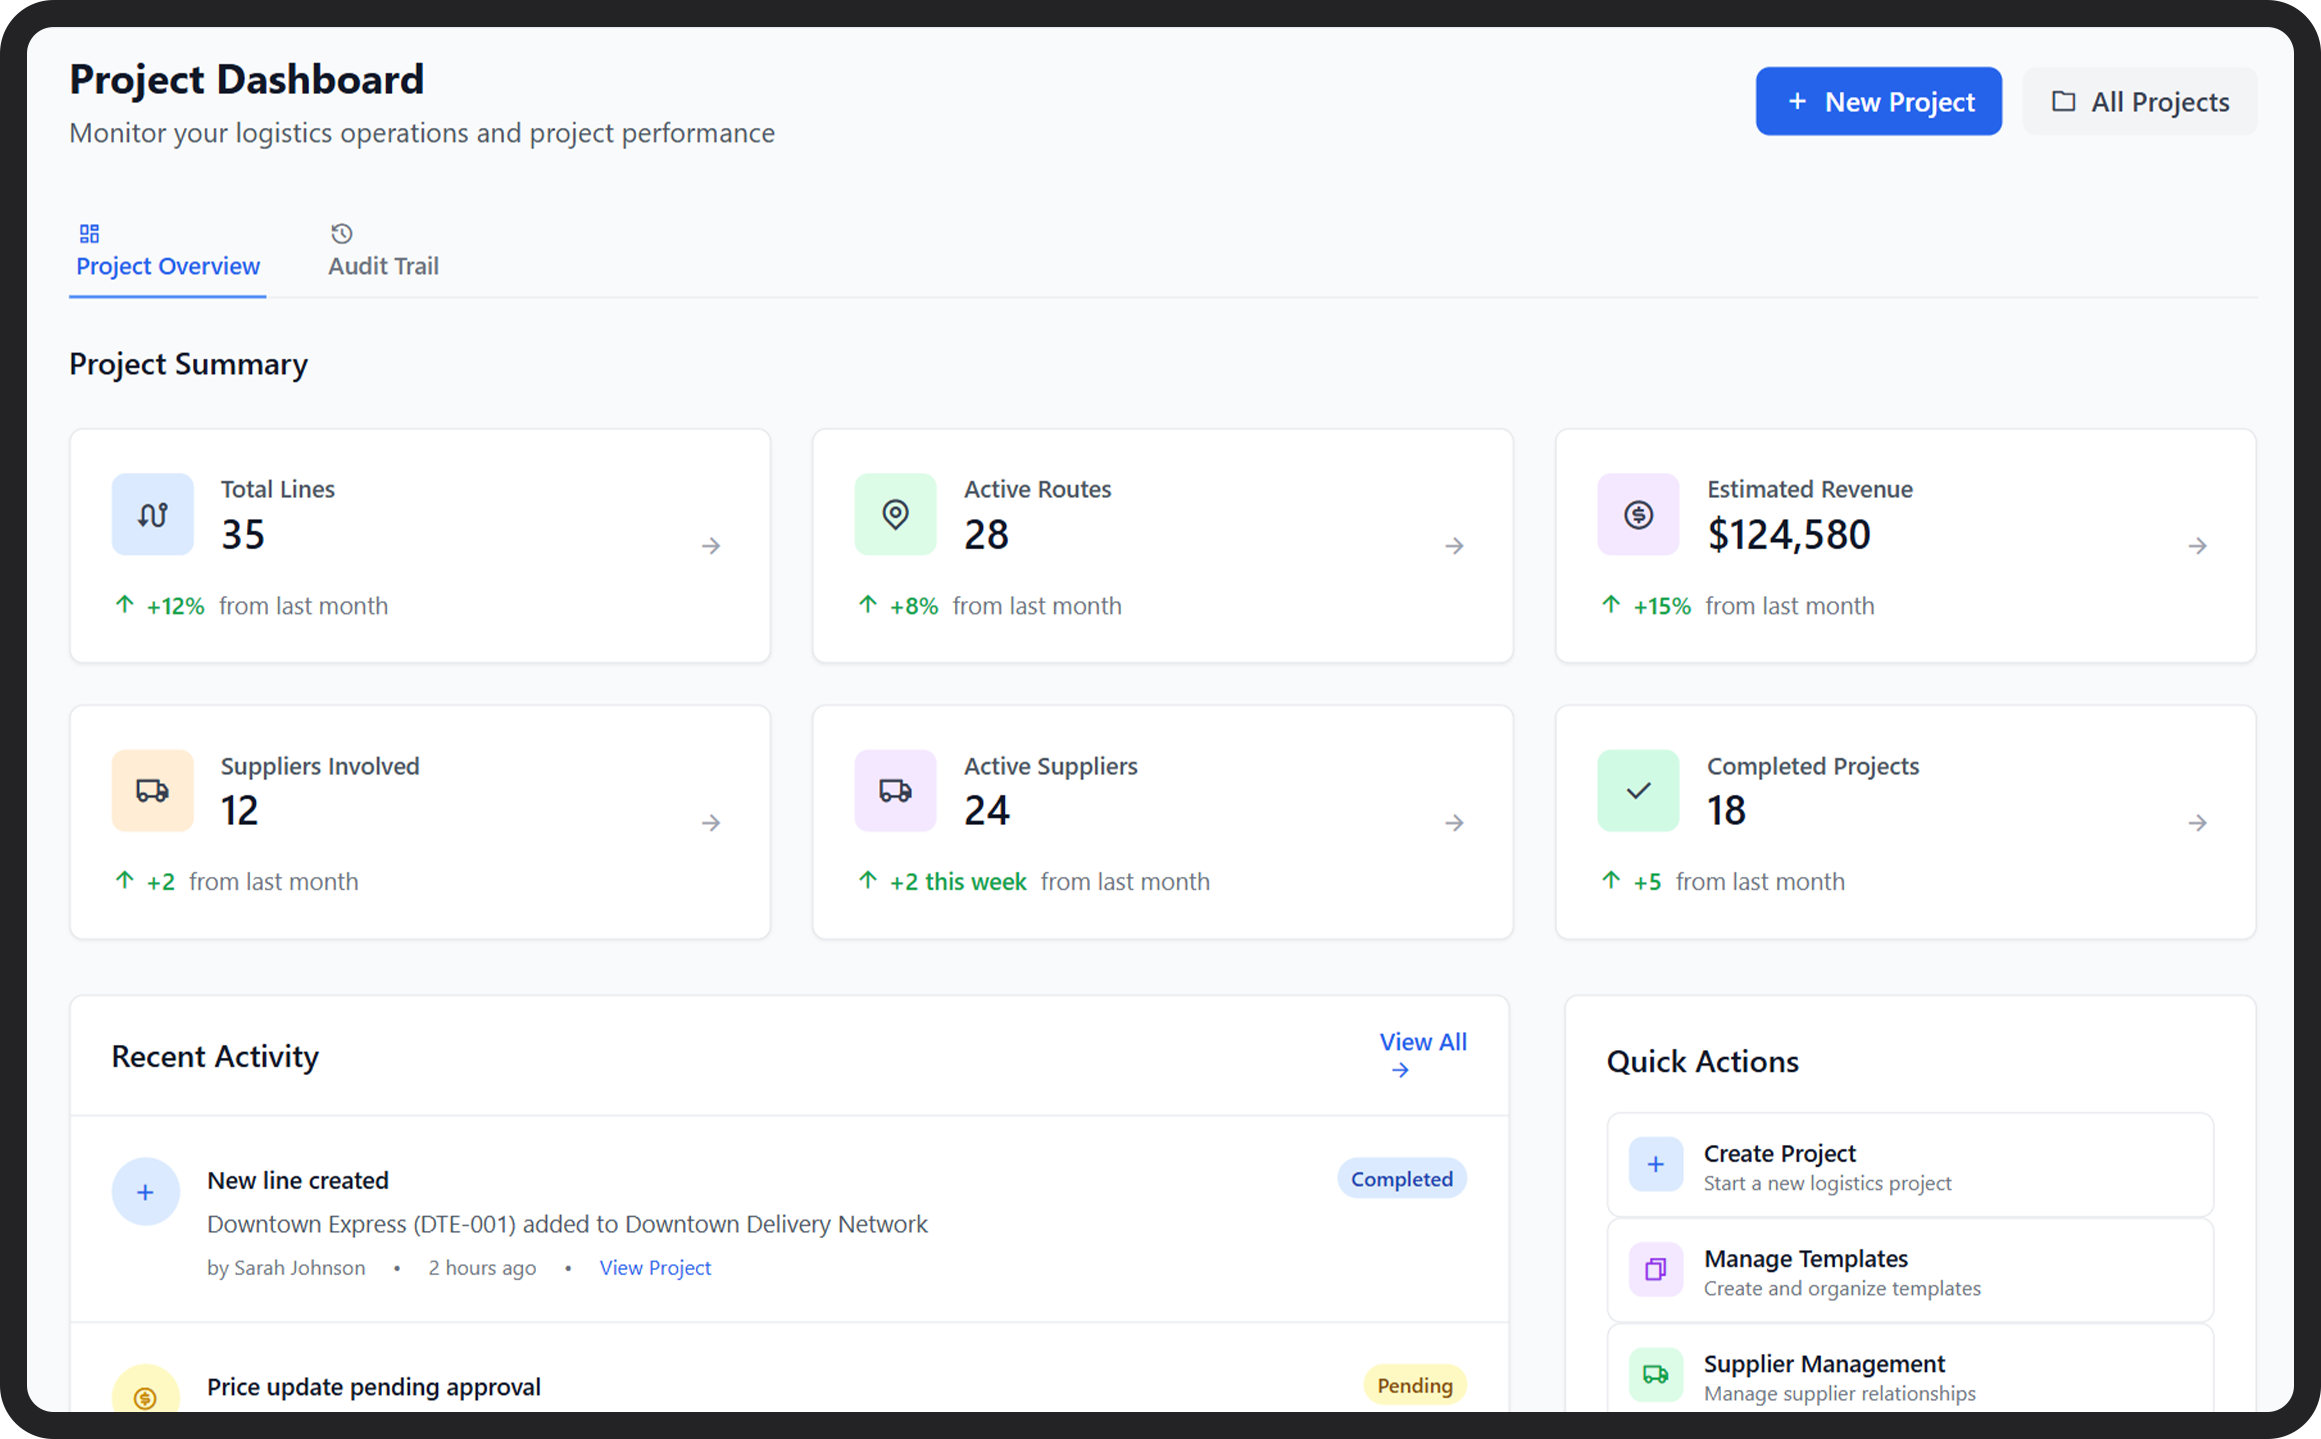
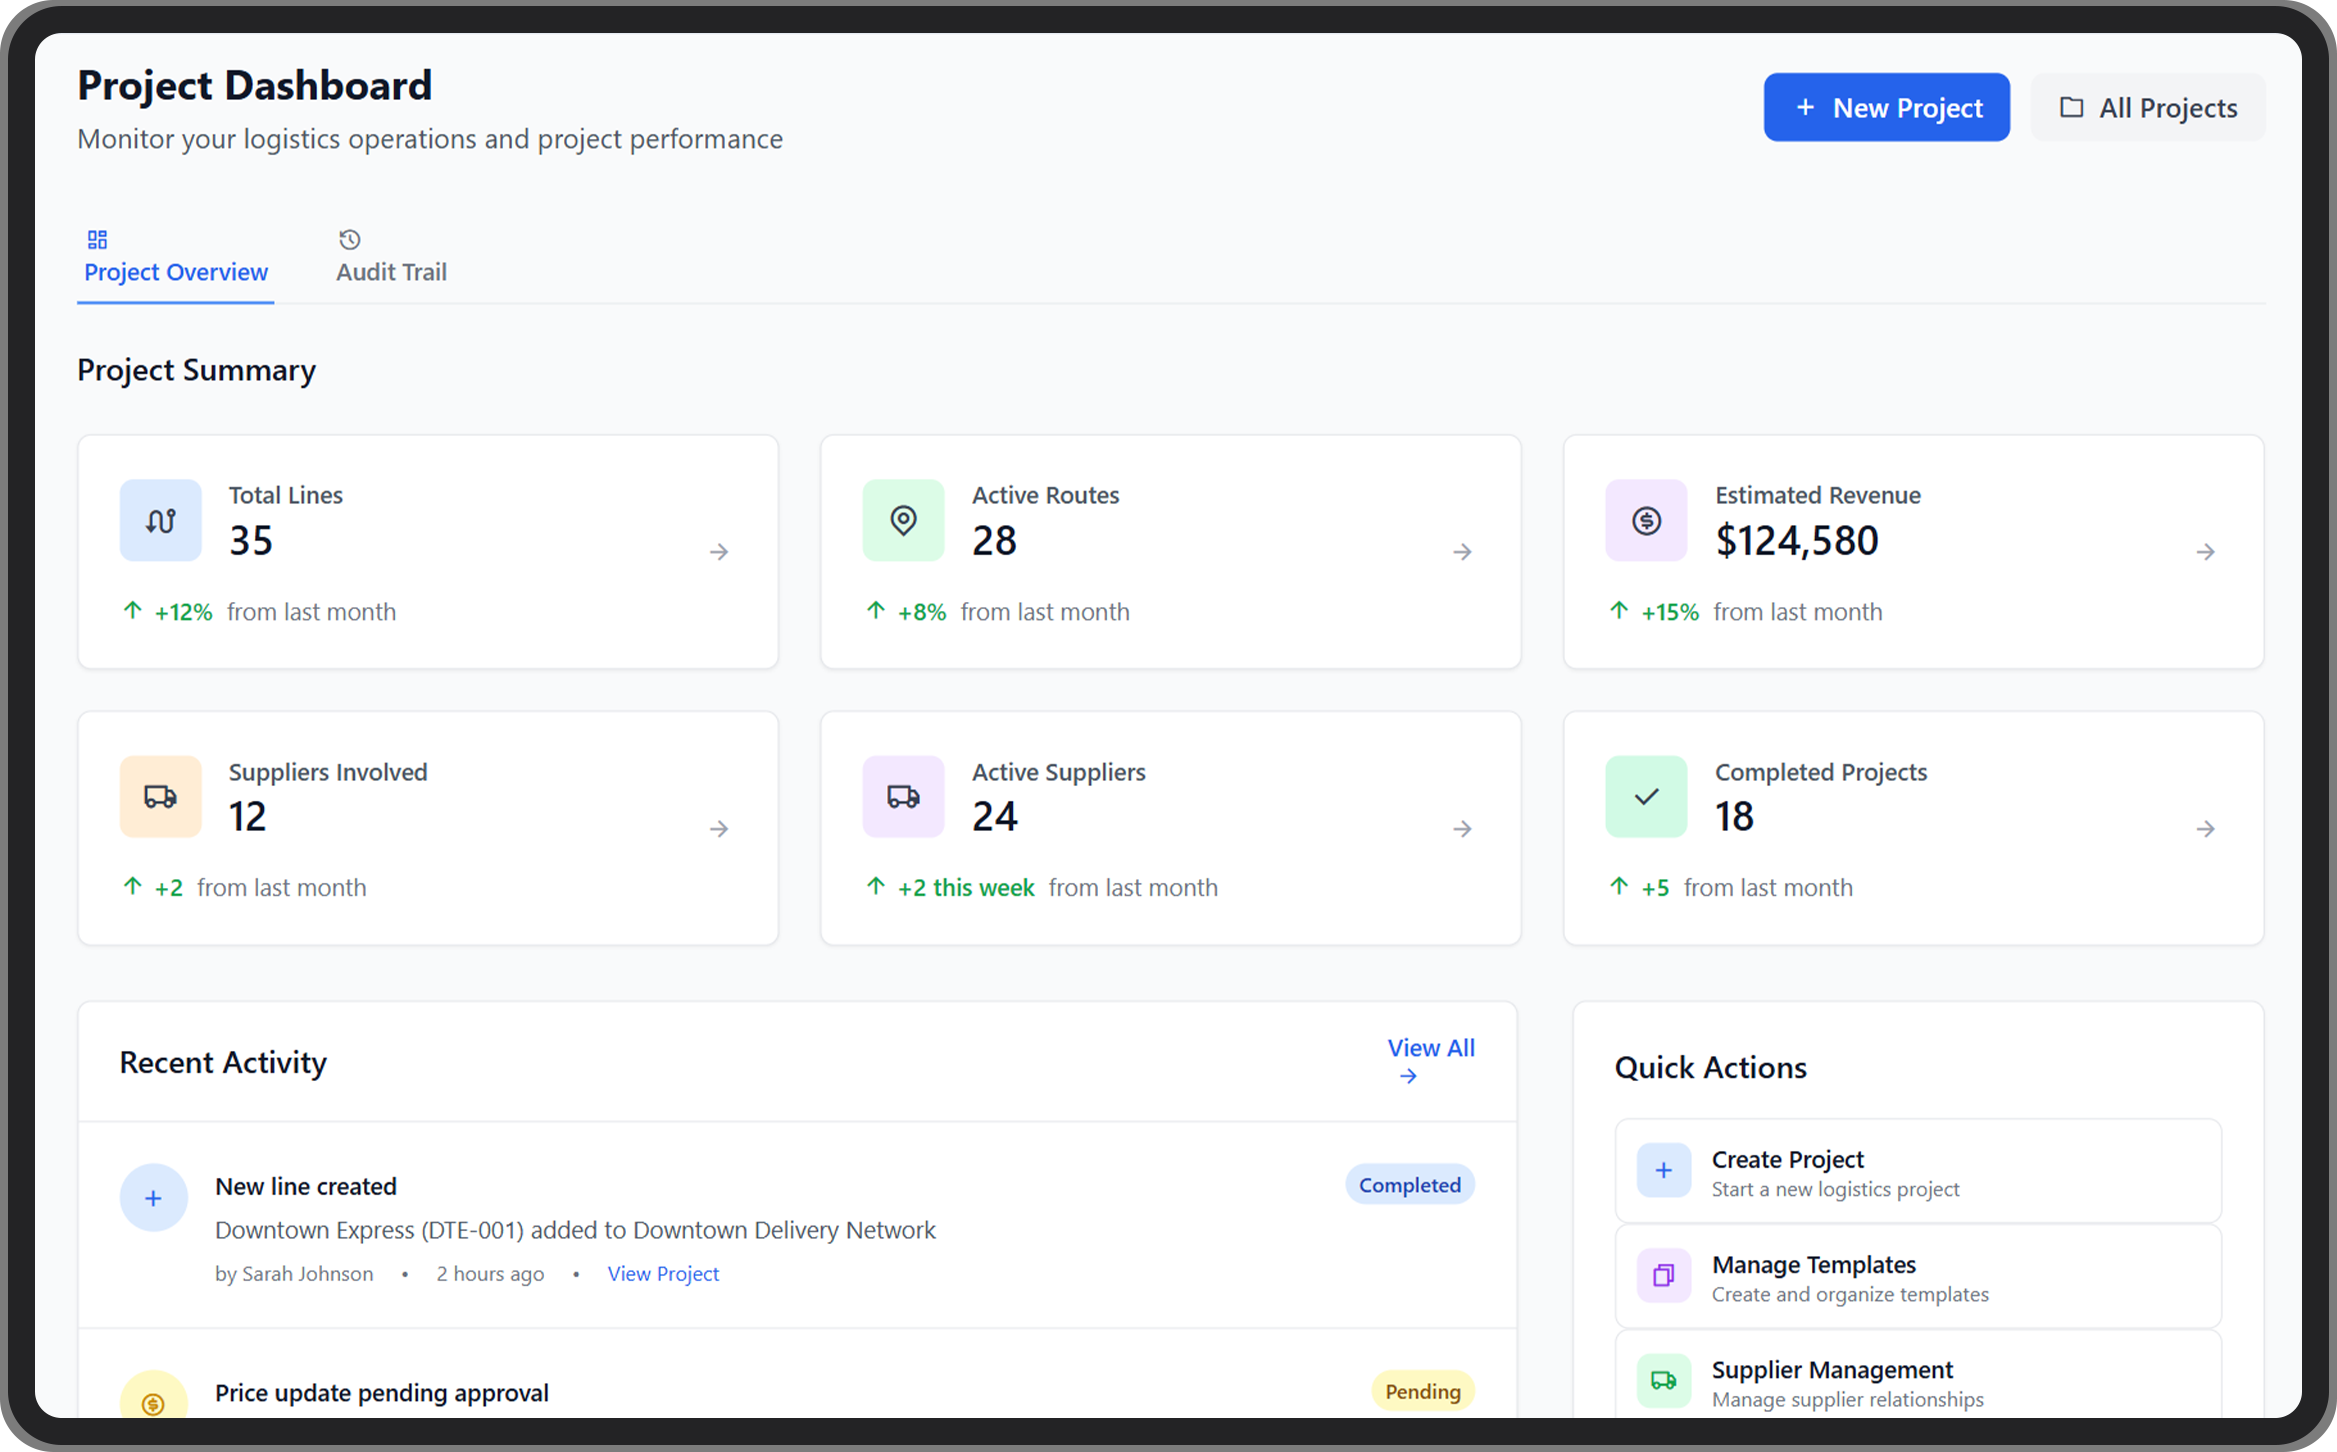
53

diff --git a/src/config/apps-data.ts b/src/config/apps-data.ts
@@ -1,0 +1,119 @@
+export interface AppConfig {
+  id: string;
+  name: string;
+  nameAr: string; // Arabic name
+  slug: string;
+  description: string;
+  descriptionAr: string; // Arabic description
+  layoutType: 'portrait' | 'landscape';
+  screenshots: string[];
+}
+
+export const appsData: Record<string, AppConfig> = {
+  'operator-dashboard': {
+    id: 'operator-dashboard',
+    name: 'Operator Dashboard',
+    nameAr: 'لوحة تحكم المشغل',
+    slug: 'operator-dashboard',
+    description: 'Comprehensive control center for fleet operations',
+    descriptionAr: 'مركز تحكم شامل لعمليات الأسطول',
+    layoutType: 'landscape',
+    screenshots: [
+      '/screenshots/operator-dashboard/1.png',
+      '/screenshots/operator-dashboard/2.png',
+      '/screenshots/operator-dashboard/3.png',
+      '/screenshots/operator-dashboard/4.png',
+      '/screenshots/operator-dashboard/5.png',
+      '/screenshots/operator-dashboard/6.png',
+      '/screenshots/operator-dashboard/7.png',
+      '/screenshots/operator-dashboard/8.png',
+      '/screenshots/operator-dashboard/9.png',
+      '/screenshots/operator-dashboard/10.png',
+      '/screenshots/operator-dashboard/11.png',
+      '/screenshots/operator-dashboard/12.png',
+      '/screenshots/operator-dashboard/13.png',
+      '/screenshots/operator-dashboard/14.png',
+      '/screenshots/operator-dashboard/15.png',
+      '/screenshots/operator-dashboard/16.png',
+      '/screenshots/operator-dashboard/17.png',
+      '/screenshots/operator-dashboard/18.png',
+
+    ]
+  },
+  'enterprise-dashboard': {
+    id: 'enterprise-dashboard',
+    name: 'Enterprise Dashboard',
+    nameAr: 'لوحة تحكم المؤسسة',
+    slug: 'enterprise-dashboard',
+    description: 'Advanced analytics and management for enterprises',
+    descriptionAr: 'تحليلات متقدمة وإدارة للمؤسسات',
+    layoutType: 'landscape',
+    screenshots: [
+      '/screenshots/enterprise-dashboard/1.png',
+      '/screenshots/enterprise-dashboard/2.png',
+      '/screenshots/enterprise-dashboard/3.png',
+      '/screenshots/enterprise-dashboard/4.png',
+      '/screenshots/enterprise-dashboard/5.png',
+      '/screenshots/enterprise-dashboard/6.png',
+      '/screenshots/enterprise-dashboard/7.png',
+      '/screenshots/enterprise-dashboard/8.png',
+      '/screenshots/enterprise-dashboard/9.png',
+      '/screenshots/enterprise-dashboard/10.png',
+      '/screenshots/enterprise-dashboard/11.png',
+      '/screenshots/enterprise-dashboard/12.png',
+      '/screenshots/enterprise-dashboard/13.png',
+    ]
+  },
+  'supervisor': {
+    id: 'supervisor',
+    name: 'Supervisor App',
+    nameAr: 'تطبيق المشرف',
+    slug: 'supervisor',
+    description: 'Real-time fleet monitoring and coordination',
+    descriptionAr: 'مراقبة وتنسيق الأسطول في الوقت الفعلي',
+    layoutType: 'portrait',
+    screenshots: [
+      '/screenshots/supervisor/1.png',
+      '/screenshots/supervisor/2.png',
+      '/screenshots/supervisor/3.png',
+      '/screenshots/supervisor/4.png',
+      '/screenshots/supervisor/5.png',
+      '/screenshots/supervisor/6.png',
+      '/screenshots/supervisor/7.png',
+      '/screenshots/supervisor/8.png',
+    ]
+  },
+  'driver': {
+    id: 'driver',
+    name: 'Driver App',
+    nameAr: 'تطبيق السائق',
+    slug: 'driver',
+    description: 'Optimized route navigation and delivery management',
+    descriptionAr: 'تحسين المسارات وإدارة التسليم',
+    layoutType: 'portrait',
+    screenshots: [
+      '/screenshots/driver/1.png',
+      '/screenshots/driver/2.png',
+      '/screenshots/driver/3.png',
+      '/screenshots/driver/4.png',
+      '/screenshots/driver/5.png',
+      '/screenshots/driver/6.png',
+    ]
+  },
+  'rider': {
+    id: 'rider',
+    name: 'Rider App',
+    nameAr: 'تطبيق الراكب',
+    slug: 'rider',
+    description: 'Seamless booking and ride experience',
+    descriptionAr: 'تجربة حجز وتنقل سلسة',
+    layoutType: 'portrait',
+    screenshots: [
+      '/screenshots/rider/1.png',
+      '/screenshots/rider/2.png',
+      '/screenshots/rider/3.png',
+      '/screenshots/rider/4.png',
+      '/screenshots/rider/5.png',
+    ]
+  }
+};

diff --git a/src/components/sections/apps/screen-carousel.tsx b/src/components/sections/apps/screen-carousel.tsx
@@ -10,10 +10,16 @@ import {
 import { Card } from '@/components/ui/card';
 import { Typography } from '@/components/ui/typography';
 import { ScrollReveal } from '@/components/animations/scroll-reveal';
-import { Smartphone } from 'lucide-react';
+import { Smartphone, Monitor } from 'lucide-react';
 import { useTranslations } from 'next-intl';
+import Image from 'next/image';
 
-export function ScreenCarousel() {
+interface ScreenCarouselProps {
+  screenshots: string[];
+  layoutType: 'portrait' | 'landscape';
+}
+
+export function ScreenCarousel({ screenshots, layoutType }: ScreenCarouselProps) {
   const t = useTranslations('apps.template.screenshots');
 
   const screens = [
@@ -24,6 +30,11 @@ export function ScreenCarousel() {
     { id: 5, title: t('screens.tripHistory.title'), description: t('screens.tripHistory.description') },
     { id: 6, title: t('screens.profile.title'), description: t('screens.profile.description') }
   ];
+
+  // Determine aspect ratio and carousel basis based on layout type
+  const aspectRatio = layoutType === 'landscape' ? 'aspect-[16/9]' : 'aspect-[9/16]';
+  const carouselBasis = layoutType === 'landscape' ? 'md:basis-1/2 lg:basis-1/2' : 'md:basis-1/3 lg:basis-1/4';
+  const PlaceholderIcon = layoutType === 'landscape' ? Monitor : Smartphone;
 
   return (
     <section className="w-full max-w-7xl mx-auto px-4 py-16">
@@ -40,11 +51,20 @@ export function ScreenCarousel() {
 
       <Carousel opts={{ align: 'start', loop: true }} className="w-full">
         <CarouselContent className="-ml-4">
-          {screens.map((screen) => (
-            <CarouselItem key={screen.id} className="pl-4 md:basis-1/3 lg:basis-1/4">
+          {screens.map((screen, index) => (
+            <CarouselItem key={screen.id} className={`pl-4 ${carouselBasis}`}>
               <Card className="overflow-hidden">
-                <div className="aspect-[9/16] bg-gradient-to-br from-primary/20 to-background flex items-center justify-center">
-                  <Smartphone className="w-16 h-16 text-primary/40" />
+                <div className={`${aspectRatio} bg-gradient-to-br from-primary/20 to-background flex items-center justify-center relative`}>
+                  {screenshots[index] ? (
+                    <Image
+                      src={screenshots[index]}
+                      alt={screen.title}
+                      fill
+                      className="object-cover"
+                    />
+                  ) : (
+                    <PlaceholderIcon className="w-16 h-16 text-primary/40" />
+                  )}
                 </div>
                 <div className="p-4">
                   <Typography variant="h4" className="mb-1">{screen.title}</Typography>

diff --git a/src/components/sections/apps/app-hero.tsx b/src/components/sections/apps/app-hero.tsx
@@ -4,10 +4,23 @@ import { motion } from 'framer-motion';
 import { Smartphone, Download } from 'lucide-react';
 import { Typography } from '@/components/ui/typography';
 import { Button } from '@/components/ui/button';
-import { useTranslations } from 'next-intl';
+import { useLocale } from 'next-intl';
 
-export function AppHero() {
-  const t = useTranslations('apps.template.hero');
+interface AppHeroProps {
+  appName: string;
+  appNameAr: string;
+  appDescription: string;
+  appDescriptionAr: string;
+}
+
+export function AppHero({ appName, appNameAr, appDescription, appDescriptionAr }: AppHeroProps) {
+  const locale = useLocale();
+  
+  const displayName = locale === 'ar' ? appNameAr : appName;
+  const downloadPrefix = locale === 'ar' ? 'حمّل' : 'Download Our';
+  const subtitle = locale === 'ar' ? 'تجربة إدارة نقل سلسة' : 'Experience seamless transportation management';
+  const appStoreText = locale === 'ar' ? 'آب ستور' : 'App Store';
+  const googlePlayText = locale === 'ar' ? 'جوجل بلاي' : 'Google Play';
 
   return (
     <section className="w-full bg-gradient-to-b from-primary/5 to-background py-20">
@@ -19,19 +32,19 @@ export function AppHero() {
             transition={{ duration: 0.6 }}
           >
             <Typography variant="h2" className="mb-6">
-              {t('title')}
+              {downloadPrefix} {displayName}
             </Typography>
             <Typography variant="subtitle" className="text-muted-foreground mb-8">
-              {t('subtitle')}
+              {subtitle}
             </Typography>
             <div className="flex flex-wrap gap-4">
               <Button size="lg" className="gap-2">
                 <Download className="w-5 h-5" />
-                {t('buttons.appStore')}
+                {appStoreText}
               </Button>
               <Button size="lg" variant="outline" className="gap-2">
                 <Download className="w-5 h-5" />
-                {t('buttons.googlePlay')}
+                {googlePlayText}
               </Button>
             </div>
           </motion.div>

diff --git a/src/components/sections/apps/AppsShowcase.tsx b/src/components/sections/apps/AppsShowcase.tsx
@@ -3,6 +3,7 @@ import { useState, useEffect } from 'react';
 import { useTheme } from 'next-themes';
 import { useTranslations, useLocale } from 'next-intl';
 import Image from 'next/image';
+import Link from 'next/link';
 import { Typography } from '@/components/ui/typography';
 
 export default function AppsShowcase() {
@@ -335,9 +336,9 @@ export default function AppsShowcase() {
                           ))}
                         </ul>
 
-                        <button className={`px-8 py-3 rounded-xl bg-gradient-to-r ${colors.primary} text-white font-medium hover:shadow-lg ${colors.shadow} transition-all duration-300 whitespace-nowrap cursor-pointer`}>
+                        <Link href={`/${locale}/apps/operator-dashboard`} className={`px-8 py-3 rounded-xl bg-gradient-to-r ${colors.primary} text-white font-medium hover:shadow-lg ${colors.shadow} transition-all duration-300 whitespace-nowrap cursor-pointer inline-block text-center`}>
                           {currentSegment.dashboard.cta}
-                        </button>
+                        </Link>
                       </div>
                     </div>
                   </div>
@@ -391,9 +392,12 @@ export default function AppsShowcase() {
                             ))}
                           </ul>
 
-                          <button className={`w-full py-3 rounded-xl bg-gradient-to-r ${colors.primary} text-white font-medium hover:shadow-lg ${colors.shadow} transition-all duration-300 whitespace-nowrap cursor-pointer`}>
+                          <Link 
+                            href={`/${locale}/apps/${index === 0 ? 'supervisor' : 'driver'}`}
+                            className={`w-full py-3 rounded-xl bg-gradient-to-r ${colors.primary} text-white font-medium hover:shadow-lg ${colors.shadow} transition-all duration-300 whitespace-nowrap cursor-pointer inline-block text-center`}
+                          >
                             {app.cta}
-                          </button>
+                          </Link>
                         </div>
                       </div>
                     </div>
@@ -445,9 +449,9 @@ export default function AppsShowcase() {
                           ))}
                         </ul>
 
-                        <button className={`w-full py-3 rounded-xl bg-gradient-to-r ${colors.primary} text-white font-medium hover:shadow-lg ${colors.shadow} transition-all duration-300 whitespace-nowrap cursor-pointer`}>
+                        <Link href={`/${locale}/apps/enterprise-dashboard`} className={`w-full py-3 rounded-xl bg-gradient-to-r ${colors.primary} text-white font-medium hover:shadow-lg ${colors.shadow} transition-all duration-300 whitespace-nowrap cursor-pointer inline-block text-center`}>
                           {currentSegment.dashboard.cta}
-                        </button>
+                        </Link>
                       </div>
                     </div>
                   </div>
@@ -493,9 +497,9 @@ export default function AppsShowcase() {
                           ))}
                         </ul>
 
-                        <button className={`w-full py-3 rounded-xl bg-gradient-to-r ${colors.primary} text-white font-medium hover:shadow-lg ${colors.shadow} transition-all duration-300 whitespace-nowrap cursor-pointer`}>
+                        <Link href={`/${locale}/apps/rider`} className={`w-full py-3 rounded-xl bg-gradient-to-r ${colors.primary} text-white font-medium hover:shadow-lg ${colors.shadow} transition-all duration-300 whitespace-nowrap cursor-pointer inline-block text-center`}>
                           {currentSegment.apps[0].cta}
-                        </button>
+                        </Link>
                       </div>
                     </div>
                   </div>

diff --git a/src/components/sections/apps/app-detail-original-template.tsx b/src/components/sections/apps/app-detail-original-template.tsx
@@ -3,16 +3,25 @@ import { ScreenCarousel } from './screen-carousel';
 import { StepSection } from './step-section';
 import { DownloadButtons } from './download-buttons';
 import { CTASection } from '@/components/sections/homepage/cta-section';
+import { AppConfig } from '@/config/apps-data';
 
-export function AppDetailOriginalTemplate() {
+interface AppDetailOriginalTemplateProps {
+  appConfig: AppConfig;
+}
+
+export function AppDetailOriginalTemplate({ appConfig }: AppDetailOriginalTemplateProps) {
   return (
     <>
-      <AppHero />
-      <ScreenCarousel />
+      <AppHero 
+        appName={appConfig.name} 
+        appNameAr={appConfig.nameAr}
+        appDescription={appConfig.description}
+        appDescriptionAr={appConfig.descriptionAr}
+      />
+      <ScreenCarousel screenshots={appConfig.screenshots} layoutType={appConfig.layoutType} />
       <StepSection />
       <DownloadButtons />
       <CTASection />
     </>
   );
 }
-

diff --git a/src/app/[locale]/(main)/apps/driver/page.tsx b/src/app/[locale]/(main)/apps/driver/page.tsx
@@ -1,6 +1,8 @@
 import { AppDetailOriginalTemplate } from '@/components/sections/apps/app-detail-original-template';
+import { appsData } from '@/config/apps-data';
 
 export default function DriverAppPage() {
-  return <AppDetailOriginalTemplate />;
+  const appConfig = appsData['driver'];
+  
+  return <AppDetailOriginalTemplate appConfig={appConfig} />;
 }
-

diff --git a/src/app/[locale]/(main)/apps/enterprise-dashboard/page.tsx b/src/app/[locale]/(main)/apps/enterprise-dashboard/page.tsx
@@ -1,6 +1,8 @@
 import { AppDetailOriginalTemplate } from '@/components/sections/apps/app-detail-original-template';
+import { appsData } from '@/config/apps-data';
 
 export default function EnterpriseDashboardPage() {
-  return <AppDetailOriginalTemplate />;
+  const appConfig = appsData['enterprise-dashboard'];
+  
+  return <AppDetailOriginalTemplate appConfig={appConfig} />;
 }
-

diff --git a/src/app/[locale]/(main)/apps/operator-dashboard/page.tsx b/src/app/[locale]/(main)/apps/operator-dashboard/page.tsx
@@ -1,6 +1,8 @@
 import { AppDetailOriginalTemplate } from '@/components/sections/apps/app-detail-original-template';
+import { appsData } from '@/config/apps-data';
 
 export default function OperatorDashboardPage() {
-  return <AppDetailOriginalTemplate />;
+  const appConfig = appsData['operator-dashboard'];
+  
+  return <AppDetailOriginalTemplate appConfig={appConfig} />;
 }
-

diff --git a/src/app/[locale]/(main)/apps/rider/page.tsx b/src/app/[locale]/(main)/apps/rider/page.tsx
@@ -1,6 +1,8 @@
 import { AppDetailOriginalTemplate } from '@/components/sections/apps/app-detail-original-template';
+import { appsData } from '@/config/apps-data';
 
 export default function RiderAppPage() {
-  return <AppDetailOriginalTemplate />;
+  const appConfig = appsData['rider'];
+  
+  return <AppDetailOriginalTemplate appConfig={appConfig} />;
 }
-

diff --git a/src/app/[locale]/(main)/apps/supervisor/page.tsx b/src/app/[locale]/(main)/apps/supervisor/page.tsx
@@ -1,6 +1,8 @@
 import { AppDetailOriginalTemplate } from '@/components/sections/apps/app-detail-original-template';
+import { appsData } from '@/config/apps-data';
 
 export default function SupervisorAppPage() {
-  return <AppDetailOriginalTemplate />;
+  const appConfig = appsData['supervisor'];
+  
+  return <AppDetailOriginalTemplate appConfig={appConfig} />;
 }
-